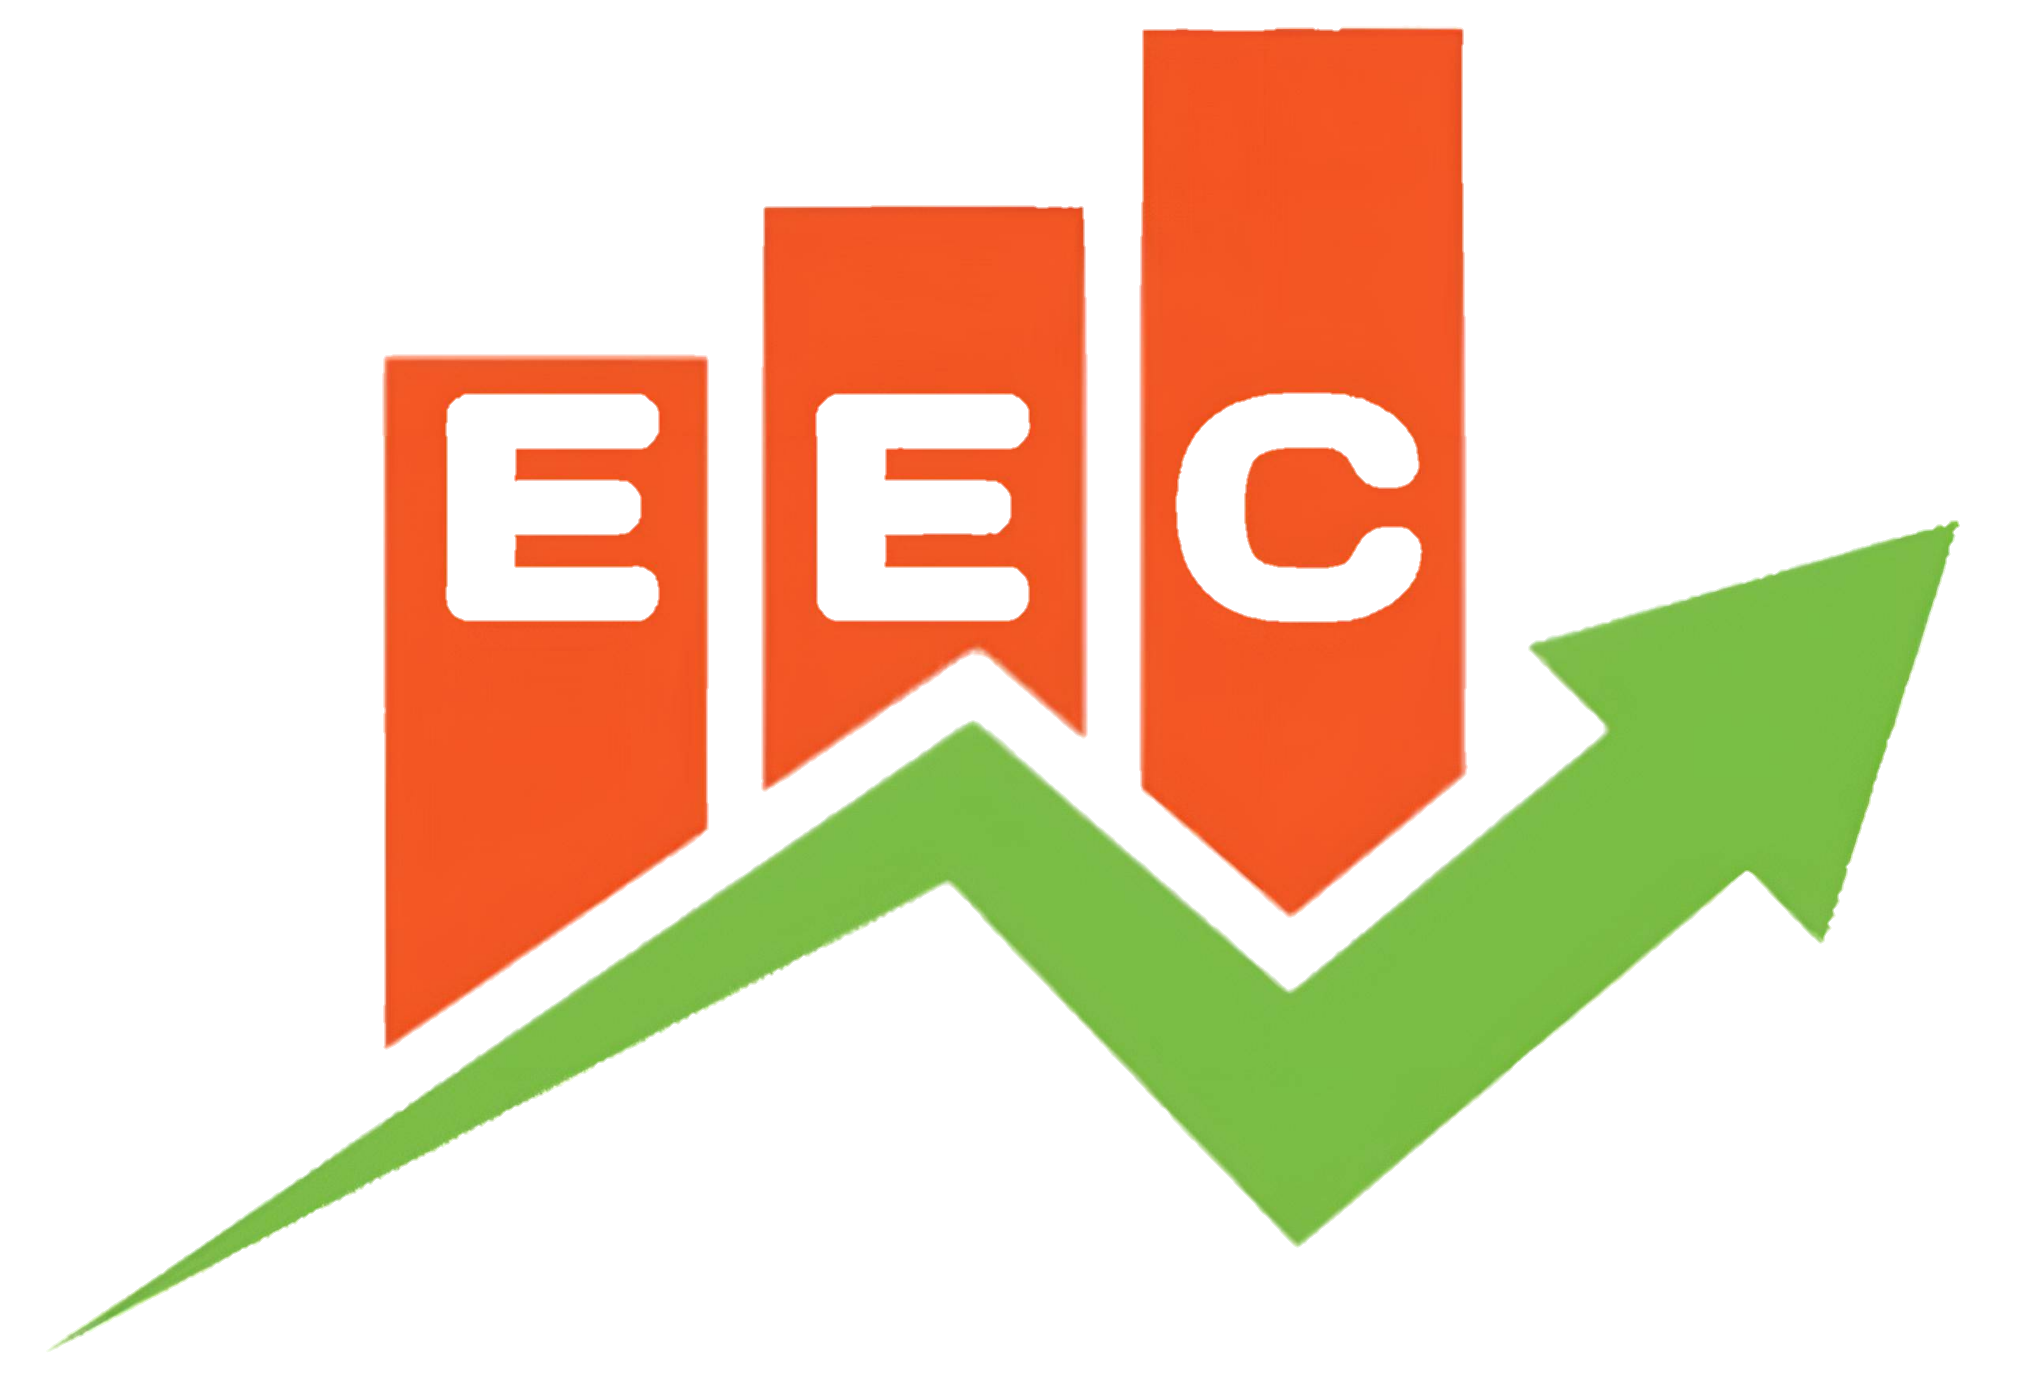
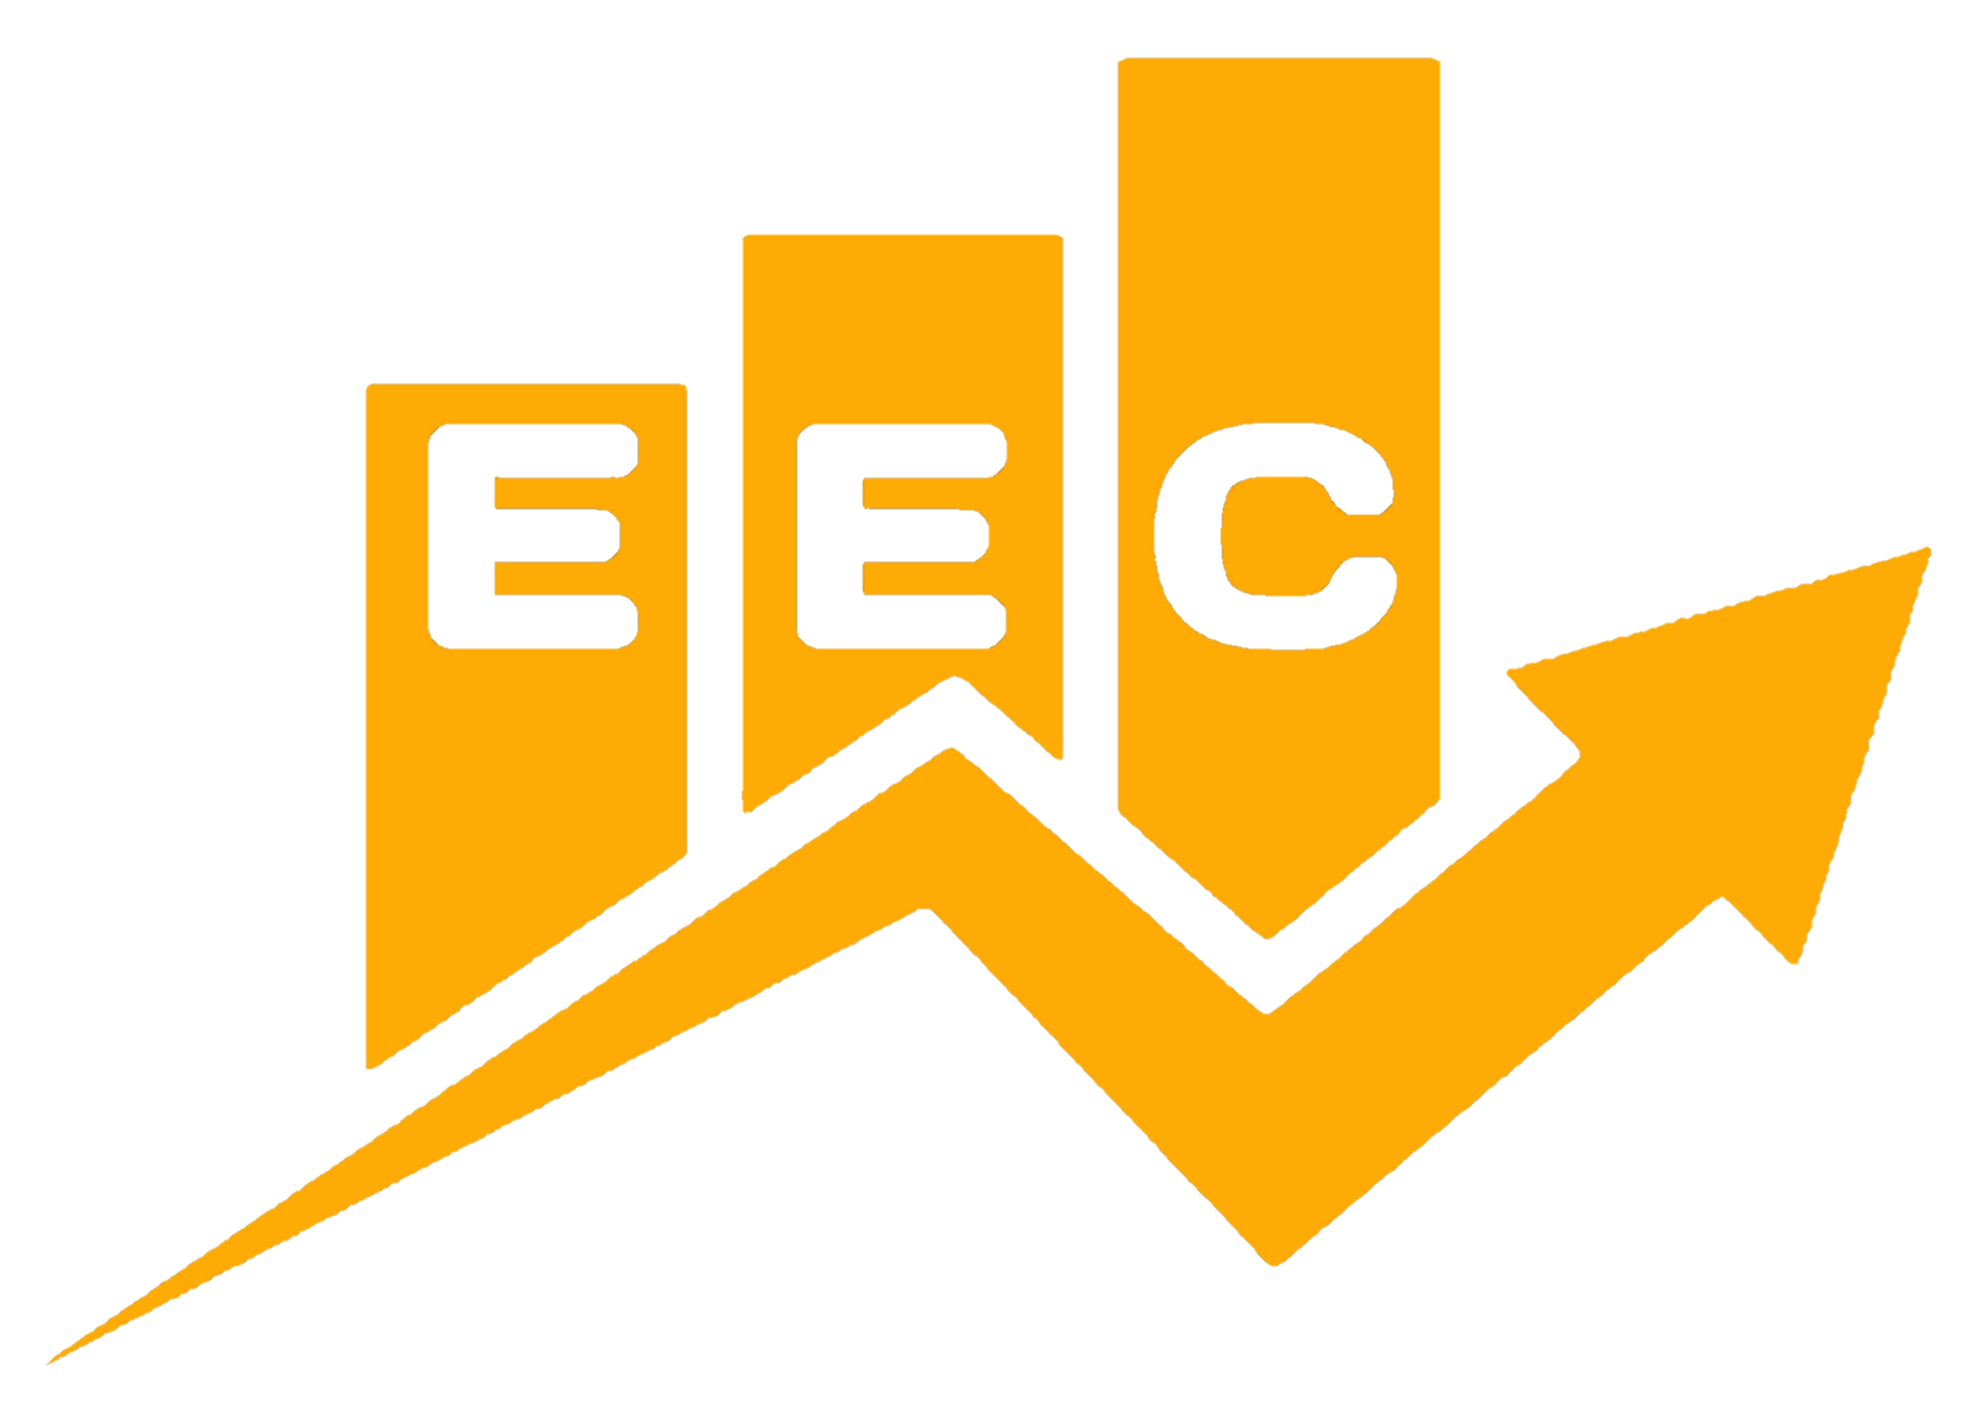
Updated

diff --git a/utils/home.js b/utils/home.js
@@ -1,5 +1,5 @@
-let baseUrl = "https://earnempire.seosblog.com/?action=";
-// let baseUrl = "http://localhost/officialsystem/?action=";
+// let baseUrl = "https://earnempire.seosblog.com/?action=";
+let baseUrl = "http://localhost/officialsystem/?action=";
 let allist = document.getElementById("allist");
 let phone = document.getElementById("phone");
 let countryid = document.getElementById("countryid");
@@ -196,8 +196,8 @@ register.addEventListener('submit', (e) => {
                         setCookie("access_token", response.data['access_token'],2)
                         login.reset();
                         
-                        // window.location.href = '/earnempire/'
-                        window.location.href = '/'
+                        window.location.href = '/earnempire/'
+                        // window.location.href = '/'
                     }
                     console.log(response)
                     if (Array.isArray(response.info) && response.info.length > 0) {

diff --git a/css/header.css b/css/header.css
@@ -20,16 +20,14 @@
     overflow: hidden;
     justify-self: start;
     margin-left: 2rem;
-    padding-top: 0.3em 0;
 }
 
 .header .earnlogo img{
-    width: 100%;
-    height: 100%;
+    width: 80%;
+    height: 80%;
 }
 .header .earntitle {
     grid-area: earntitle;
-    /* font-family: "Anton SC", sans-serif; */
     font-size: 1.9rem;
     color: #fff;
     font-weight: 800;
@@ -80,7 +78,7 @@
     .header .earnlogo {
         margin: 0;
         justify-self:  start;
-        width: 80px;
+        width: 50px;
         grid-area: 1/1/2/2;
     }
     .menui{

diff --git a/compiler.php b/compiler.php
@@ -15,7 +15,7 @@
     <div class="root">
         <div class="header">
             <div class="earnlogo">
-                <img src="<?php echo $domain;?>/images/earn1.png" alt="">
+                <img src="<?php echo $domain;?>/images/earn11.png" alt="">
             </div>
             <span class="smalld menui">
             <i class="fa-solid fa-list" id="menuid"></i>
